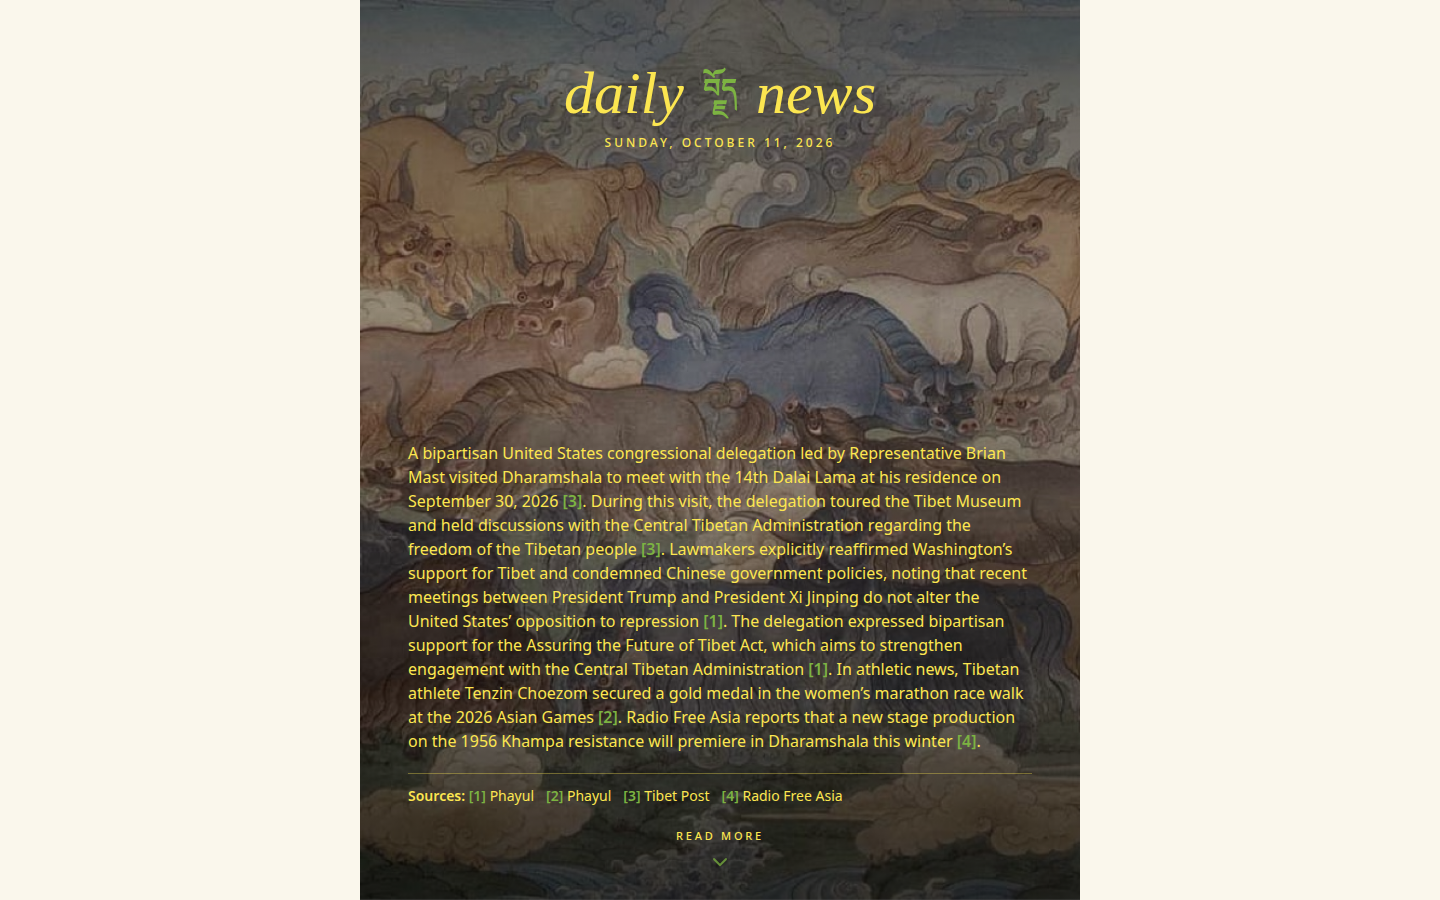
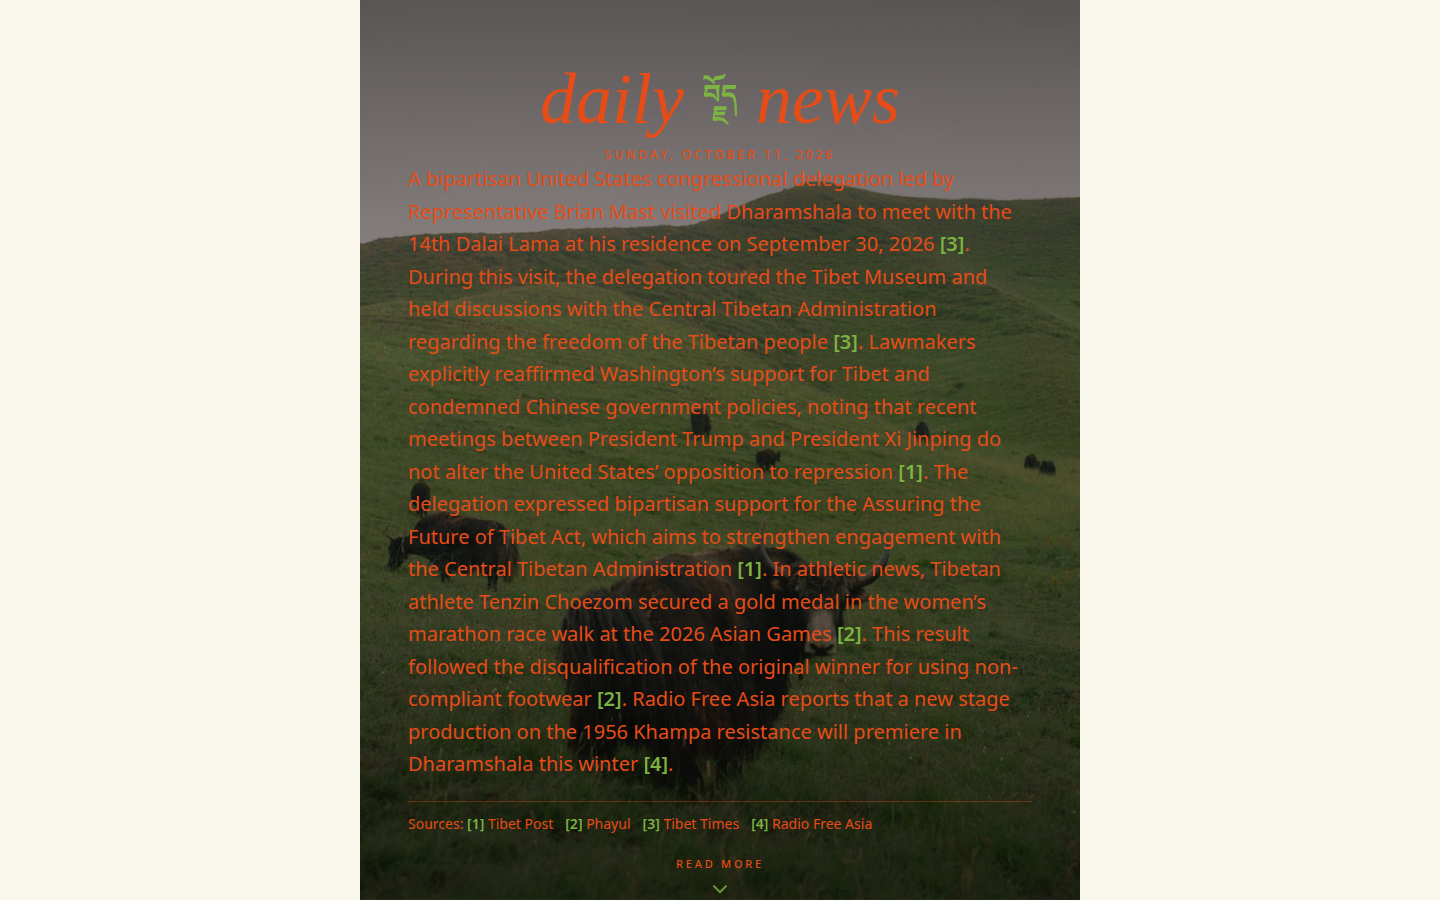
Switch homepage hero to yak field with orange text
- Hero: yak field photo instead of thangka
- Unified text: orange #E64C18 (sampled from reference poster)
- Header bumped a size, desktop summary 20px, Sources label un-bolded
- Fix mobile sources row wrapping (flex flex-wrap)
- Refresh PR screenshots

diff --git a/client/src/pages/daily-homepage.tsx b/client/src/pages/daily-homepage.tsx
@@ -5,7 +5,7 @@ import { BhoeJaSeal } from '../components/bhoe-ja-seal';
 import { fetchDailySummary } from '../lib/api';
 import type { DailySummary } from '../types';
 
-const TEXT_YELLOW = '#fce650';
+const TEXT_ORANGE = '#E64C18';
 const ACCENT_CLOVER = '#7CB342';
 const GUTTER_WARM_WHITE = '#faf7ec';
 
@@ -71,7 +71,7 @@ export function DailyHomepage() {
       <div
         className="relative mx-auto h-[100dvh] w-full md:w-[50vw]"
         style={{
-          backgroundImage: 'url(/hero/daily-thangka.jpg)',
+          backgroundImage: 'url(/hero/daily-yak-field.jpg)',
           backgroundSize: 'cover',
           backgroundPosition: 'center',
         }}
@@ -88,11 +88,11 @@ export function DailyHomepage() {
 
         <div
           className="relative z-10 flex h-full flex-col"
-          style={{ color: TEXT_YELLOW }}
+          style={{ color: TEXT_ORANGE }}
         >
           {/* Header */}
           <header className="pt-[7vh] text-center">
-            <h1 className="daily-serif flex items-center justify-center gap-1 md:gap-2 text-5xl md:text-6xl">
+            <h1 className="daily-serif flex items-center justify-center gap-1 md:gap-2 text-6xl md:text-7xl">
               <span>daily</span>
               <span style={{ color: ACCENT_CLOVER }}>
                 <BhoeJaSeal className="h-12 w-12 md:h-14 md:w-14" />
@@ -110,11 +110,11 @@ export function DailyHomepage() {
           {/* Summary */}
           <section className="px-7 md:px-12">
             {summary ? (
-              <p className="text-left text-[13px] leading-relaxed md:text-base">
+              <p className="text-left text-[13px] leading-relaxed md:text-[20px]">
                 <CitedOverview text={summary.overview} />
               </p>
             ) : (
-              <p className="animate-pulse text-left text-[13px] leading-relaxed opacity-70 md:text-base">
+              <p className="animate-pulse text-left text-[13px] leading-relaxed opacity-70 md:text-[20px]">
                 {failed
                   ? "Today's briefing isn't ready yet."
                   : 'Preparing today\u2019s briefing\u2026'}
@@ -126,13 +126,13 @@ export function DailyHomepage() {
           <section className="mt-5 px-7 md:px-12">
             <hr
               className="border-t"
-              style={{ borderColor: TEXT_YELLOW, opacity: 0.35 }}
+              style={{ borderColor: TEXT_ORANGE, opacity: 0.35 }}
             />
-            <p className="mt-3 text-left text-[13px] leading-relaxed md:text-sm">
-              <span className="font-semibold">Sources:</span>{' '}
+            <div className="mt-3 flex flex-wrap items-baseline gap-x-3 gap-y-1 text-left text-[13px] leading-relaxed md:text-sm">
+              <span>Sources:</span>
               {summary ? (
                 summary.sources.map((source) => (
-                  <span key={source.index} className="mr-3 whitespace-nowrap">
+                  <span key={source.index} className="whitespace-nowrap">
                     <a
                       href={source.link}
                       target="_blank"
@@ -146,14 +146,14 @@ export function DailyHomepage() {
                       >
                         [{source.index}]
                       </span>{' '}
-                      <span style={{ color: TEXT_YELLOW }}>{source.site}</span>
+                      <span style={{ color: TEXT_ORANGE }}>{source.site}</span>
                     </a>
                   </span>
                 ))
               ) : (
                 <span className="opacity-60">\u2026</span>
               )}
-            </p>
+            </div>
           </section>
 
           {/* Read more */}
@@ -166,7 +166,7 @@ export function DailyHomepage() {
             >
               <span
                 className="text-[11px] font-medium uppercase tracking-[0.25em]"
-                style={{ color: TEXT_YELLOW }}
+                style={{ color: TEXT_ORANGE }}
               >
                 read more
               </span>
